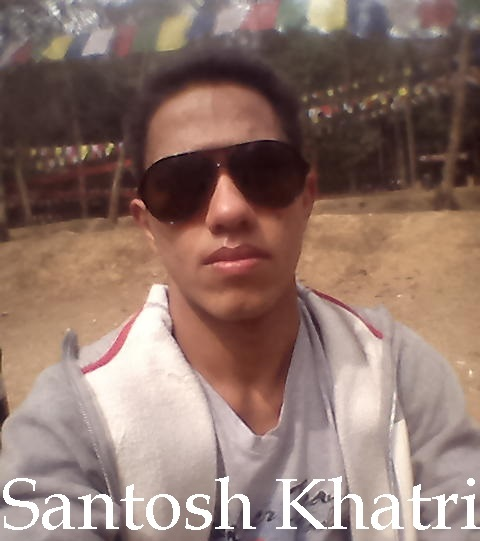
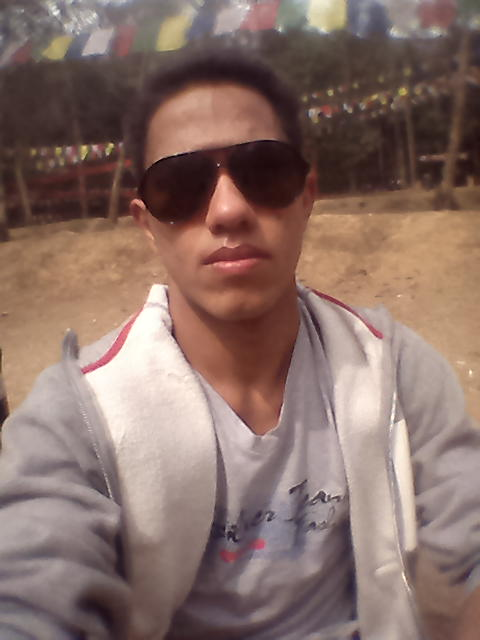
html and css modified and images removed/added

diff --git a/index.html b/index.html
@@ -1,74 +1,80 @@
+<!-- Name   : Santosh Khatri -->
+<!-- UN ID  : 17421490 -->
 <!DOCTYPE html>
 <!-- html of the page starts from here -->
 <html>
 <!-- this part is for head of the page -->
 <head>
   <!-- this part is for the title of the page -->
-  <title>Portfolio</title>
+<title>Portfolio</title>
 <!-- this is the code to link html and css -->
 <link href="css/main.css" rel="stylesheet">
+<link rel="stylesheet" href="https://cdnjs.cloudflare.com/ajax/libs/font-awesome/4.7.0/css/font-awesome.min.css">
+<link rel="stylesheet" href="/lib/w3.css">
+<link rel="icon" type="image/jpg" href="images/title icon.jpg" />
+<!-- this is for closing head -->
 </head>
 <!-- this part is for the body of the page -->
 <body>
-  <div class="img">
-    <img src="images/santosh.jpg" alt="logo">
-  </div>
-  <div class="img">
-    <img src="images/flower.gif" alt="welcome">
-  </div>
-  <div class="img3">
-    <img src="images/flower.gif" alt="welcome">
-  </div>
 <!-- header of the page starts here -->
 <header>
-  <h1>Welcome To My Portfolio</h1>
+    <h1>Welcome To My Portfolio</h1>
+<!-- this is for closing header -->
 </header>
 <!-- this part is for the elements that will be present on menubar -->
 <div class="menubar">
   <ul>
-    <li><a href="index.html">Home</a></li>
-    <li><a href="cv.html">CV</a></li>
-    <li><a href="bio.html">Bio</a></li>
-    <li><a href="contact.html">Contact me</a></li>
+    <li><a href="index.html"><i class="fa fa-home"></i>Home</a></li>
+    <li><a href="cv.html"><i class="fa fa-file"></i>CV</a></li>
+    <li><a href="bio.html"><i class="fa fa-file-text"></i>Bio</a></li>
+    <li><a href="contact.html"><i class="fa fa-envelope"></i>Contact me</a></li>
+    <li><input type="text" name="search" placeholder="Search.."><i class="fa fa-search"></i></li>
   </ul>
 </div>
 <!-- this part is for section of the page -->
 <section>
   <!-- this part is for the elements that will be present on sidebar -->
   <div class="sidebar">
-    <h3>Navigation</h3>
-      <article>
-        <ul>
-          <li><a href="#">Introduction</a></li>
-          <li><a href="#">Hobbies and Aim</a></li>
-          <li><a href="#">Likes and Dislikes</a></li>
-          <li><a href="#">Skills</a></li>
-        </ul>
-    </article>
+    <!-- this code is creating class of images -->
+    <div class="img">
+      <img src="images/santosh.jpg" alt="logo">
+    </div>
   </div>
-  <!-- this part is for the main contents of my detail information -->
+  <!-- this part is for short introduction about me -->
   <div class="main">
     <article>
-      <h3>Welcome to my personal CV Portfolio site everyone.</h3>
-        <p>Hello guys its me Santosh Khatri. I am a student studying at NAMI College, one of the college of Northampton University and I have been studying Bsc(Hons)Computing.</P>
+      <h3>About me</h3>
+        <p><br>Hello! everyone, you are most welcome to my personal portfolio site.
+          My name is Santosh Khatri and I am a student.
+          At present, I have been graduating my bachelor degree in Bsc(Hons)Computing from NAMI college, one of the affilated college of Northampton University.
+          Similarly, I completed my high school from Neric Academy affilated to Government of Nepal and Greenfield National Higher Secondary School(GNHSS) affilated to Higher Secondary Education Board(HSEB).</br>
+          <br>Finally, I hope that all the content available in this portfolio site would be helpful and meet every demands of your's requirements and if you have any queries regarding me then you are warmly welcome to make me contact or drop me an email.</br></P>
     </article>
   </div>
+<!-- section of the page ends here -->
 </section>
 <!-- footer of the page starts from here -->
 <footer>
-  <!-- this part is for visiting me on facebook social media -->
+  <!-- this part is for visiting me on social medias -->
   <div class="block">
-    <h3>Visit me on Facebook</h3>
-  </div>
-  <!-- this part is for knowing actually who developed this required page -->
-  <div class="block">
-    <h3>Developed by:- Santosh Khatri</h3>
+    <h3>Visit me on Social medias</h3>
+     <i class="fa fa-facebook-square"></i>
+     <i class="fa fa-google"></i>
+     <i class="fa fa-twitter"></i>
   </div>
   <!-- this part is for copyright permission allowed -->
   <div class="block">
     <h3>Copyright</h3>
       <p>Copyright @2017. All rights reserved.</P>
   </div>
+  <!-- this part is for knowing actually who developed this required page -->
+  <div class="block">
+    <h3>Developed by</h3>
+      <p>Santosh Khatri</p>
+  </div>
+<!-- this is for closing footer -->
 </footer>
+<!-- this is for closing body  -->
 </body>
+<!-- this is for closing the html ultimately -->
 </html>

diff --git a/css/main.css b/css/main.css
@@ -1,24 +1,20 @@
-body{background: white;font-size: 15px;font-family: arial;margin: 0;line-height: 28px;}
+body{background: white;font-size: 17px;font-family: arial;margin: 0;line-height: 28px;border-radius: 2px;}
 h1,h2,h3,h4,h5,h6,ul,li,p{margin: 0;padding: 0;}
 li{list-style: none;}
-img{float: left;width: 250px;height: 109px;margin-left: 4%;}
-.img3{float: right;}
 header{background: red;color: white;text-align: center;padding: 3%;}
-.menubar{background: blue;padding: 1%;}
+@keyframes example {0%   {background-color: red;}50%  {background-color: blue;}100% {background-color: green;}}
+div{background-color: green;animation-name: example;animation-duration: 4s;}
+.menubar{background: blue;padding: 1%;border-radius: 2px;}
 .menubar ul{display: flex;flex-flow: row;}
-.menubar ul li{background: white;text-align: center;flex: auto;margin: 1%;padding: 0.5%;}
+.menubar ul li{background: white;text-align: center;flex: auto;margin: 1%;padding: 0.5%;box-shadow: 0px 8px 16px 0px;}
 .menubar ul li a{color: black;text-decoration: none;}
 .menubar ul li:hover{background: skyblue;border-radius: 10px;}
 .menubar ul li:hover a{color:white;}
-section{background: lightgreen;padding: 1%;display: flex;flex-direction: row;justify-content: space-between;height: 323px;}
-.sidebar{background: yellow;color: black;padding: 1%;width: 25%;}
-.sidebar a{color: black;}
-.sidebar article{margin-bottom: 5%;}
-.sidebar article h3{background: white;color: black;padding: 1%;}
-.sidebar article ul li{margin: 2%;}
-.sidebar article ul li a{text-decoration: none;}
-.sidebar article ul li a:hover{color: white;text-decoration: none;}
-.main{background: green;color: white;padding: 1%;width: 70%;}
+input[type=text] {-webkit-transition: width 0.4s ease-in-out;transition: width 0.4s ease-in-out;}
+section{background: lightgreen;padding: 1%;display: flex;flex-direction: row;justify-content: space-between;}
+.sidebar{background: green;padding: 1%;width: 25%;box-shadow: 0px 8px 16px 0px;border-radius: 8px;}
+img{width: 328px;height: 285px;box-shadow: 0px 8px 16px 0px; border: 1px solid #ddd;border-radius: 4px;}
+.main{background: darkgreen;color: white;padding: 1%;width: 70%;box-shadow: 0px 8px 16px 0px;border-radius: 8px;}
 .main h3{background: green;color: black;padding: 1%;}
-footer{background: red;display: flex;flex-direction: row;justify-content: space-between;padding: 1%;}
-footer .block{background:white;width: 30%;padding: 1%;text-align: center;}
+footer{background: red;display: flex;flex-direction: row;justify-content: space-between;padding: 1%;border-radius: 2px;}
+footer .block{background:white;width: 30%;padding: 1%;text-align: center;box-shadow: 0px 8px 16px 0px;border-radius: 8px;}

diff --git a/cv.html b/cv.html
@@ -1,0 +1,76 @@
+<!-- Name   : Santosh Khatri -->
+<!-- UN ID  : 17421490 -->
+<!DOCTYPE html>
+<!-- html of the page starts from here -->
+<html>
+<!-- this part is for head of the page -->
+<head>
+  <!-- this part is for the title of the page -->
+<title>Portfolio</title>
+<!-- this is the code to link html and css -->
+<link href="css/main.css" rel="stylesheet">
+<link rel="stylesheet" href="https://cdnjs.cloudflare.com/ajax/libs/font-awesome/4.7.0/css/font-awesome.min.css">
+<link rel="stylesheet" href="/lib/w3.css">
+<link rel="icon" type="image/jpg" href="images/title icon.jpg" />
+<!-- this is for closing head -->
+</head>
+<!-- this part is for the body of the page -->
+<body>
+<!-- header of the page starts here -->
+<header>
+    <h1>Welcome To My Portfolio</h1>
+<!-- this is for closing header -->
+</header>
+<!-- this part is for the elements that will be present on menubar -->
+<div class="menubar">
+  <ul>
+    <li><a href="index.html"><i class="fa fa-home"></i>Home</a></li>
+    <li><a href="cv.html"><i class="fa fa-file"></i>CV</a></li>
+    <li><a href="bio.html"><i class="fa fa-file-text"></i>Bio</a></li>
+    <li><a href="contact.html"><i class="fa fa-envelope"></i>Contact me</a></li>
+    <li><input type="text" name="search" placeholder="Search.."><i class="fa fa-search"></i></li>
+  </ul>
+</div>
+<!-- this part is for section of the page -->
+<section>
+  <!-- this part is for the elements that will be present on sidebar -->
+  <div class="sidebar">
+    <!-- this code is creating class of images -->
+    <div class="img">
+      <img src="images/santosh.jpg" alt="logo">
+    </div>
+  </div>
+  <!-- this part is for short introduction about me -->
+  <div class="main">
+    <article>
+      <h3>Curriculum Vitae</h3>
+        <p></P>
+    </article>
+  </div>
+<!-- section of the page ends here -->
+</section>
+<!-- footer of the page starts from here -->
+<footer>
+  <!-- this part is for visiting me on social medias -->
+  <div class="block">
+    <h3>Visit me on Social medias</h3>
+     <i class="fa fa-facebook-square"></i>
+     <i class="fa fa-google"></i>
+     <i class="fa fa-twitter"></i>
+  </div>
+  <!-- this part is for copyright permission allowed -->
+  <div class="block">
+    <h3>Copyright</h3>
+      <p>Copyright @2017. All rights reserved.</P>
+  </div>
+  <!-- this part is for knowing actually who developed this required page -->
+  <div class="block">
+    <h3>Developed by</h3>
+      <p>Santosh Khatri</p>
+  </div>
+<!-- this is for closing footer -->
+</footer>
+<!-- this is for closing body  -->
+</body>
+<!-- this is for closing the html ultimately -->
+</html>

diff --git a/contact.html b/contact.html
@@ -1,0 +1,76 @@
+<!-- Name   : Santosh Khatri -->
+<!-- UN ID  : 17421490 -->
+<!DOCTYPE html>
+<!-- html of the page starts from here -->
+<html>
+<!-- this part is for head of the page -->
+<head>
+  <!-- this part is for the title of the page -->
+<title>Portfolio</title>
+<!-- this is the code to link html and css -->
+<link href="css/main.css" rel="stylesheet">
+<link rel="stylesheet" href="https://cdnjs.cloudflare.com/ajax/libs/font-awesome/4.7.0/css/font-awesome.min.css">
+<link rel="stylesheet" href="/lib/w3.css">
+<link rel="icon" type="image/jpg" href="images/title icon.jpg" />
+<!-- this is for closing head -->
+</head>
+<!-- this part is for the body of the page -->
+<body>
+<!-- header of the page starts here -->
+<header>
+    <h1>Welcome To My Portfolio</h1>
+<!-- this is for closing header -->
+</header>
+<!-- this part is for the elements that will be present on menubar -->
+<div class="menubar">
+  <ul>
+    <li><a href="index.html"><i class="fa fa-home"></i>Home</a></li>
+    <li><a href="cv.html"><i class="fa fa-file"></i>CV</a></li>
+    <li><a href="bio.html"><i class="fa fa-file-text"></i>Bio</a></li>
+    <li><a href="contact.html"><i class="fa fa-envelope"></i>Contact me</a></li>
+    <li><input type="text" name="search" placeholder="Search.."><i class="fa fa-search"></i></li>
+  </ul>
+</div>
+<!-- this part is for section of the page -->
+<section>
+  <!-- this part is for the elements that will be present on sidebar -->
+  <div class="sidebar">
+    <!-- this code is creating class of images -->
+    <div class="img">
+      <img src="images/santosh.jpg" alt="logo">
+    </div>
+  </div>
+  <!-- this part is for short introduction about me -->
+  <div class="main">
+    <article>
+      <h3>Contact me</h3>
+        <p></P>
+    </article>
+  </div>
+<!-- section of the page ends here -->
+</section>
+<!-- footer of the page starts from here -->
+<footer>
+  <!-- this part is for visiting me on social medias -->
+  <div class="block">
+    <h3>Visit me on Social medias</h3>
+     <i class="fa fa-facebook-square"></i>
+     <i class="fa fa-google"></i>
+     <i class="fa fa-twitter"></i>
+  </div>
+  <!-- this part is for copyright permission allowed -->
+  <div class="block">
+    <h3>Copyright</h3>
+      <p>Copyright @2017. All rights reserved.</P>
+  </div>
+  <!-- this part is for knowing actually who developed this required page -->
+  <div class="block">
+    <h3>Developed by</h3>
+      <p>Santosh Khatri</p>
+  </div>
+<!-- this is for closing footer -->
+</footer>
+<!-- this is for closing body  -->
+</body>
+<!-- this is for closing the html ultimately -->
+</html>

diff --git a/bio.html b/bio.html
@@ -1,0 +1,76 @@
+<!-- Name   : Santosh Khatri -->
+<!-- UN ID  : 17421490 -->
+<!DOCTYPE html>
+<!-- html of the page starts from here -->
+<html>
+<!-- this part is for head of the page -->
+<head>
+  <!-- this part is for the title of the page -->
+<title>Portfolio</title>
+<!-- this is the code to link html and css -->
+<link href="css/main.css" rel="stylesheet">
+<link rel="stylesheet" href="https://cdnjs.cloudflare.com/ajax/libs/font-awesome/4.7.0/css/font-awesome.min.css">
+<link rel="stylesheet" href="/lib/w3.css">
+<link rel="icon" type="image/jpg" href="images/title icon.jpg" />
+<!-- this is for closing head -->
+</head>
+<!-- this part is for the body of the page -->
+<body>
+<!-- header of the page starts here -->
+<header>
+    <h1>Welcome To My Portfolio</h1>
+<!-- this is for closing header -->
+</header>
+<!-- this part is for the elements that will be present on menubar -->
+<div class="menubar">
+  <ul>
+    <li><a href="index.html"><i class="fa fa-home"></i>Home</a></li>
+    <li><a href="cv.html"><i class="fa fa-file"></i>CV</a></li>
+    <li><a href="bio.html"><i class="fa fa-file-text"></i>Bio</a></li>
+    <li><a href="contact.html"><i class="fa fa-envelope"></i>Contact me</a></li>
+    <li><input type="text" name="search" placeholder="Search.."><i class="fa fa-search"></i></li>
+  </ul>
+</div>
+<!-- this part is for section of the page -->
+<section>
+  <!-- this part is for the elements that will be present on sidebar -->
+  <div class="sidebar">
+    <!-- this code is creating class of images -->
+    <div class="img">
+      <img src="images/santosh.jpg" alt="logo">
+    </div>
+  </div>
+  <!-- this part is for short introduction about me -->
+  <div class="main">
+    <article>
+      <h3>Biography</h3>
+        <p></P>
+    </article>
+  </div>
+<!-- section of the page ends here -->
+</section>
+<!-- footer of the page starts from here -->
+<footer>
+  <!-- this part is for visiting me on social medias -->
+  <div class="block">
+    <h3>Visit me on Social medias</h3>
+     <i class="fa fa-facebook-square"></i>
+     <i class="fa fa-google"></i>
+     <i class="fa fa-twitter"></i>
+  </div>
+  <!-- this part is for copyright permission allowed -->
+  <div class="block">
+    <h3>Copyright</h3>
+      <p>Copyright @2017. All rights reserved.</P>
+  </div>
+  <!-- this part is for knowing actually who developed this required page -->
+  <div class="block">
+    <h3>Developed by</h3>
+      <p>Santosh Khatri</p>
+  </div>
+<!-- this is for closing footer -->
+</footer>
+<!-- this is for closing body  -->
+</body>
+<!-- this is for closing the html ultimately -->
+</html>
